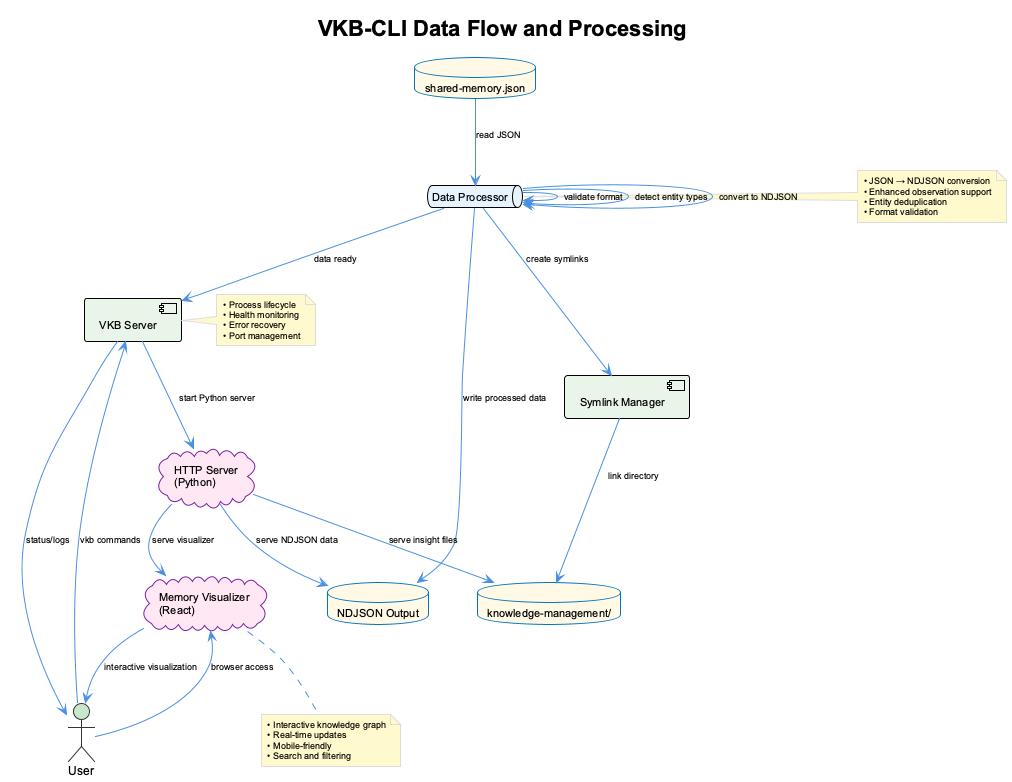
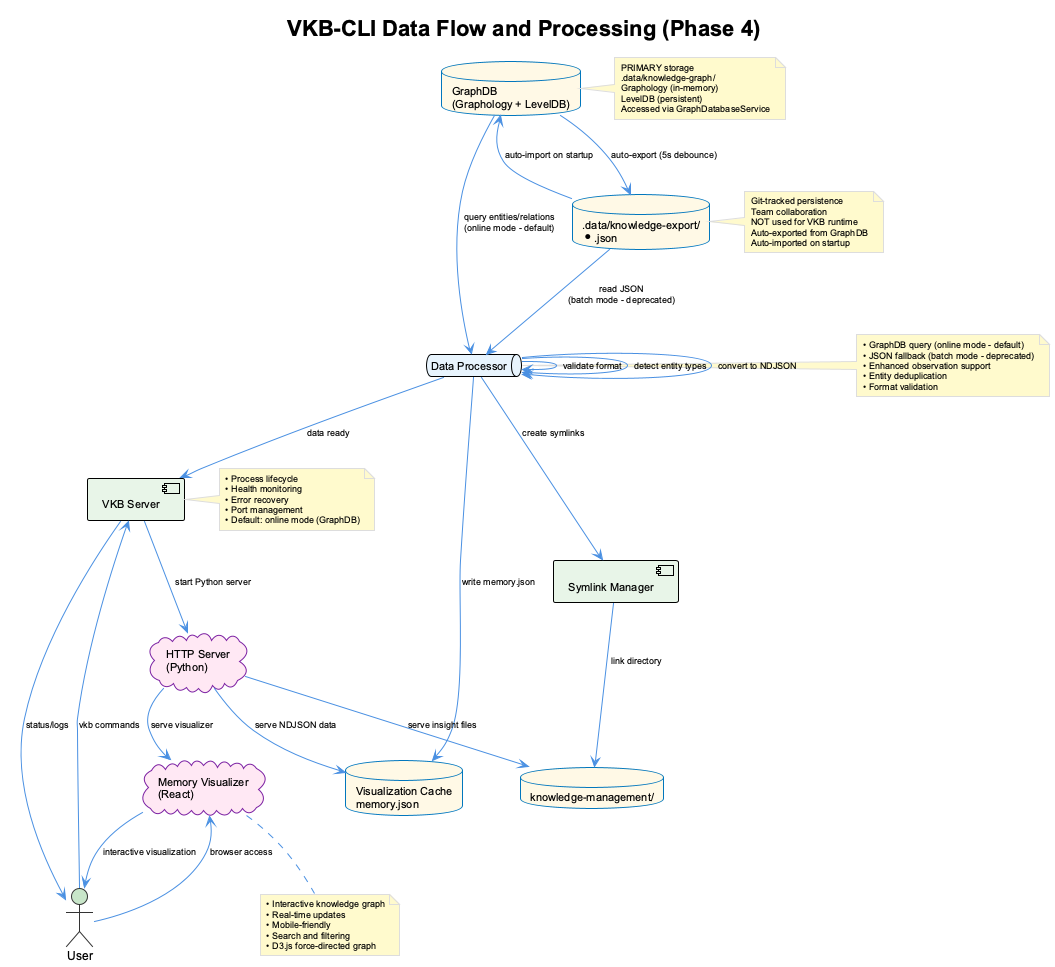
docs: vkb update

diff --git a/docs/knowledge-management/vkb-visualization-guide.md b/docs/knowledge-management/vkb-visualization-guide.md
@@ -248,8 +248,8 @@ VKB_DATA_SOURCE=combined vkb start
 claude-mcp
 # ... code and discuss patterns ...
 
-# 2. Add manual insights
-ukb "Architecture: Microservices with API Gateway pattern"
+# 2. Add manual insights by typing in Claude chat:
+# "ukb" - triggers MCP semantic-analysis workflow
 
 # 3. Visualize combined knowledge
 vkb start --with-online
@@ -365,11 +365,13 @@ VKB server configuration is managed through environment variables and options pa
 **Key Settings**:
 ```javascript
 {
-  dataSourceMode: 'batch' | 'online' | 'combined',
+  dataSourceMode: 'online',  // default: GraphDB direct access
+  // dataSourceMode: 'batch' | 'combined',  // legacy modes
   port: 8080,
   projectRoot: '/Users/q284340/Agentic/coding',
   visualizerDir: 'memory-visualizer/',
-  sharedMemoryPaths: ['shared-memory-coding.json', ...]
+  graphDbPath: '.data/knowledge-graph/',  // PRIMARY storage
+  exportDir: '.data/knowledge-export/'    // git-tracked persistence
 }
 ```
 
@@ -465,10 +467,19 @@ Future versions will support:
 - Binary: `/Users/q284340/Agentic/coding/bin/vkb-cli.js`
 - Wrapper: `/Users/q284340/Agentic/coding/knowledge-management/vkb`
 
-**Data Storage**:
-- GraphDB: `/Users/q284340/Agentic/coding/.data/knowledge-graph/` (PRIMARY)
-- JSON Exports: `/Users/q284340/Agentic/coding/.data/knowledge-export/*.json` (git-tracked)
-- Visualization Cache: `/Users/q284340/Agentic/coding/memory-visualizer/dist/memory*.json` (generated)
+**Data Storage (Phase 4 Architecture)**:
+- **GraphDB** (PRIMARY): `/Users/q284340/Agentic/coding/.data/knowledge-graph/`
+  - Graphology (in-memory)
+  - LevelDB (persistent)
+  - Runtime access via GraphDatabaseService
+- **JSON Exports** (git-tracked): `/Users/q284340/Agentic/coding/.data/knowledge-export/*.json`
+  - Auto-exported from GraphDB (5s debounce)
+  - Auto-imported to GraphDB on startup
+  - Team collaboration via git
+  - NOT used for VKB runtime access
+- **Visualization Cache** (generated): `/Users/q284340/Agentic/coding/memory-visualizer/dist/memory*.json`
+  - Created from GraphDB queries (online mode)
+  - Or from JSON exports (batch mode - deprecated)
 
 **Visualizer**:
 - Directory: `/Users/q284340/Agentic/coding/memory-visualizer/`

diff --git a/docs/knowledge-management/vkb-visualize.md b/docs/knowledge-management/vkb-visualize.md
@@ -180,10 +180,11 @@ vkb-cli data export --format json --output kb-export.json
 ### Workflow Integration
 
 ```bash
-# Capture insights with UKB
-ukb --interactive
+# Knowledge capture happens via:
+# 1. Continuous Learning (automatic during coding)
+# 2. MCP Semantic Analysis (type "ukb" in Claude chat)
 
-# Refresh visualization
+# Refresh visualization after knowledge updates
 vkb-cli data refresh
 
 # Or restart for comprehensive refresh
